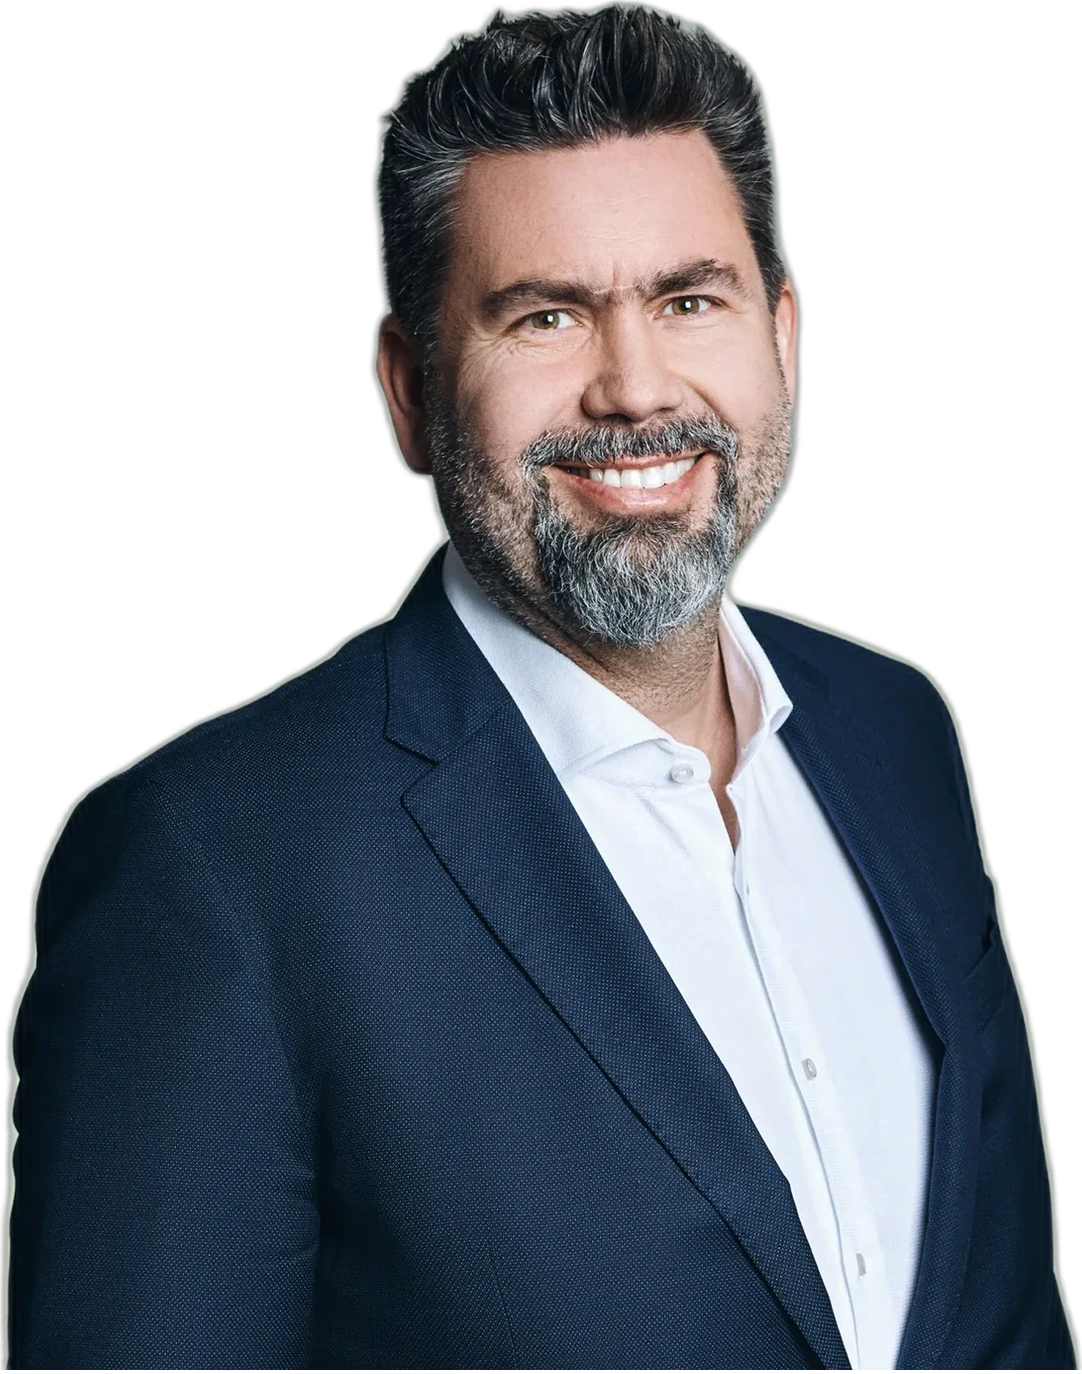
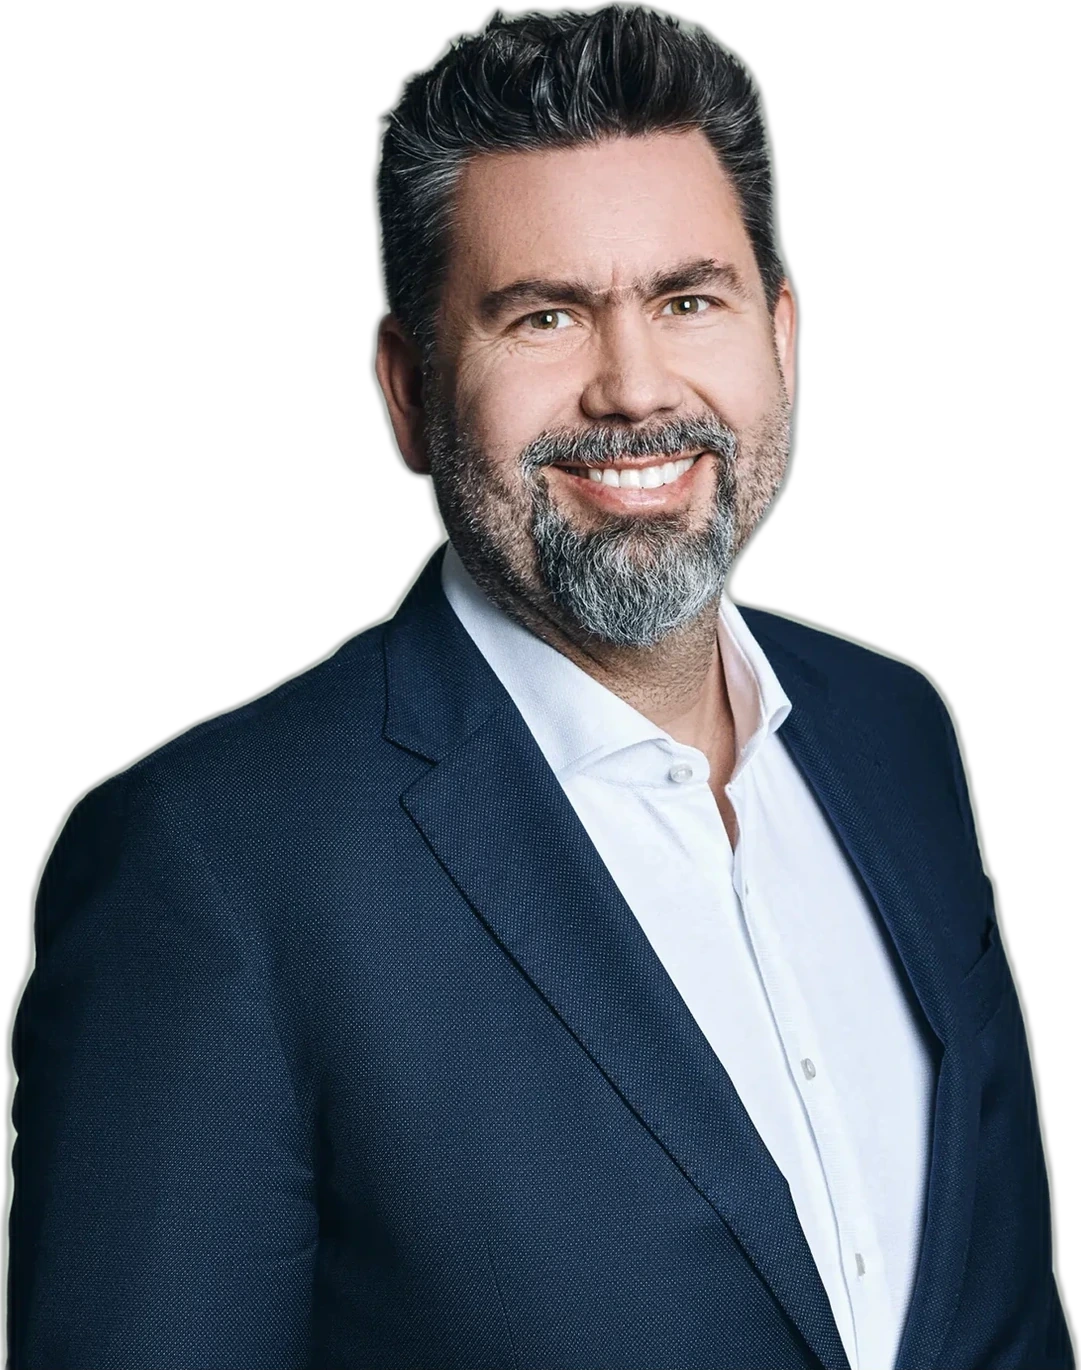
Speakers flush to slide bottom; smaller cutouts enter from right
Trim cutout transparent pads, remove floor offset, pin portraits to
bottom: 0. Keep reduced size and Petřina mid-entrance from the right.

diff --git a/src/styles/finale-b.css b/src/styles/finale-b.css
@@ -124,6 +124,8 @@
   right: 0;
   top: 250px;
   bottom: 0;
+  padding: 0;
+  margin: 0;
   overflow: hidden;
   mask-image: linear-gradient(90deg, transparent 0%, #000 3%, #000 97%, transparent 100%);
   -webkit-mask-image: linear-gradient(90deg, transparent 0%, #000 3%, #000 97%, transparent 100%);
@@ -136,28 +138,20 @@
   display: flex;
   align-items: flex-end;
   gap: 44px;
+  margin: 0;
+  padding: 0;
   will-change: transform;
 }
 .sp-card {
   position: relative;
   flex: 0 0 auto;
   height: 100%;
+  margin: 0;
+  padding: 0;
   overflow: visible;
   background: transparent;
   border: none;
   box-shadow: none;
-}
-.sp-card::after {
-  content: "";
-  position: absolute;
-  left: 12%;
-  right: 12%;
-  bottom: -2px;
-  height: 36px;
-  border-radius: 50%;
-  background: radial-gradient(ellipse at center, rgba(3, 56, 61, 0.2), transparent 70%);
-  pointer-events: none;
-  z-index: 1;
 }
 .sp-photo {
   position: absolute;
@@ -168,11 +162,14 @@
   max-height: 68%;
   width: auto;
   max-width: 92%;
+  margin: 0;
+  padding: 0;
   object-fit: contain;
   object-position: center bottom;
   display: block;
   z-index: 2;
-  filter: drop-shadow(0 10px 28px rgba(3, 56, 61, 0.2));
+  /* shadow only upward/soft — no lift off the floor */
+  filter: drop-shadow(0 -2px 24px rgba(3, 56, 61, 0.16));
   pointer-events: none;
 }
 .sp-n {
@@ -197,7 +194,7 @@
   position: absolute;
   left: 28px;
   right: 28px;
-  bottom: 28px;
+  bottom: 20px;
   z-index: 3;
   display: flex;
   flex-direction: column;
